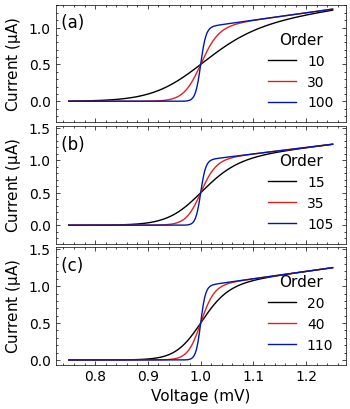
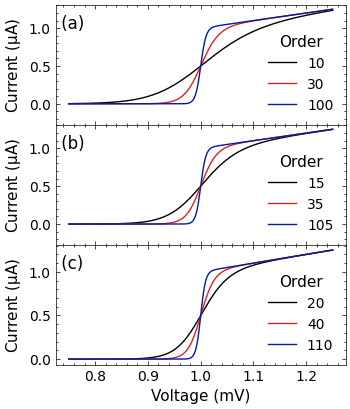
fix: robustly adjust y-axis limits in StackVertical._fix_limits for joined subplots
Three bugs fixed:
1. Reversed condition (`<` → `>`) for upper-limit check meant the top-edge
   adjustment almost never fired.
2. Heuristic index-based tick selection replaced with a visibility-window
   search finding the actual min/max visible tick.
3. FixedLocator now freezes tick positions after a limit expansion to prevent
   the auto-locator from placing new edge ticks that would recreate the overlap.

Also skip _fix_limits for non-linear (e.g. log) y-scales where the linear
transform assumption does not hold, avoiding spurious UserWarning from matplotlib.

New test module added: tests/stonerplots/test_stack_vertical.py

diff --git a/tests/stonerplots/test_stack_vertical.py b/tests/stonerplots/test_stack_vertical.py
@@ -1,0 +1,185 @@
+# -*- coding: utf-8 -*-
+"""Tests for StackVertical context manager, focusing on the _fix_limits robustness fix.
+
+These tests verify that the `_fix_limits` method in StackVertical correctly adjusts
+y-axis limits for joined subplots so that tick labels do not overflow into adjacent
+panels, using the algebraic approach with a FixedLocator to prevent feedback ticks.
+"""
+import numpy as np
+import pytest
+from matplotlib import pyplot as plt
+from matplotlib.ticker import FixedLocator
+
+from stonerplots import StackVertical
+
+
+def _axes_dy(ax) -> float:
+    """Return the minimum required tick-to-edge clearance in axes units for *ax*."""
+    fig = ax.get_figure()
+    ticklabels = ax.yaxis.get_ticklabels()
+    if not ticklabels:
+        return 0.0
+    fnt_pts = float(ticklabels[0].get_fontsize())
+    ax_height = ax.bbox.transformed(fig.transFigure.inverted()).height * fig.get_figheight() * 72
+    return 1.40 * fnt_pts / ax_height if ax_height > 0 else 0.0
+
+
+class TestFixLimitsBottomTickPadding:
+    """Verify that the lowest visible tick is pushed away from the bottom frame edge."""
+
+    def test_bottom_tick_not_too_close_to_bottom_for_non_bottom_subplot(self):
+        """For every non-bottom subplot the lowest visible tick must sit >= dy from the bottom."""
+        plt.figure()
+        with StackVertical(3, joined=True) as axes:
+            for ax in axes:
+                ax.plot([0, 1, 2], [0, 1, 0])
+
+        # Inspect each non-bottom subplot (indices 0 and 1 in a 3-panel stack)
+        for ix, ax in enumerate(axes[:-1]):
+            dy = _axes_dy(ax)
+            if dy <= 0:
+                continue
+            tr = ax.transData + ax.transAxes.inverted()
+            yticks_axes = [tr.transform((0, t))[1] for t in ax.get_yticks()]
+            visible = [ta for ta in yticks_axes if -0.01 <= ta <= 1.01]
+            if not visible:
+                continue
+            lowest = min(visible)
+            # Allow a small numerical tolerance of 1e-6 in the comparison.
+            assert lowest >= dy - 1e-6, (
+                f"Subplot {ix}: lowest visible tick at axes pos {lowest:.4f} "
+                f"is closer than dy={dy:.4f} to the bottom edge"
+            )
+
+        plt.close("all")
+
+    def test_top_tick_not_too_close_to_top_for_non_top_subplot(self):
+        """For every non-top subplot the highest visible tick must sit >= dy from the top."""
+        plt.figure()
+        with StackVertical(3, joined=True) as axes:
+            for ax in axes:
+                ax.plot([0, 1, 2], [0, 1, 0])
+
+        # Inspect each non-top subplot (indices 1 and 2 in a 3-panel stack)
+        for ix, ax in enumerate(axes[1:], start=1):
+            dy = _axes_dy(ax)
+            if dy <= 0:
+                continue
+            tr = ax.transData + ax.transAxes.inverted()
+            yticks_axes = [tr.transform((0, t))[1] for t in ax.get_yticks()]
+            visible = [ta for ta in yticks_axes if -0.01 <= ta <= 1.01]
+            if not visible:
+                continue
+            highest = max(visible)
+            assert highest <= 1.0 - dy + 1e-6, (
+                f"Subplot {ix}: highest visible tick at axes pos {highest:.4f} "
+                f"is closer than dy={dy:.4f} to the top edge"
+            )
+
+        plt.close("all")
+
+
+class TestFixLimitsLockerPreventsEdgeTicks:
+    """Verify that a FixedLocator is installed after a limit adjustment."""
+
+    def test_fixed_locator_installed_when_limits_are_adjusted(self):
+        """At least one non-bottom/non-top subplot should have a FixedLocator after exit."""
+        plt.figure()
+        with StackVertical(3, joined=True) as axes:
+            for ax in axes:
+                ax.plot([0, 1, 2], [0, 1, 0])
+
+        # The middle subplot is most likely to need both lower and upper adjustments.
+        # If the data happened to be perfectly spaced the locator may remain unchanged,
+        # but when an adjustment is made it must be a FixedLocator.
+        middle_ax = axes[1]
+        locator = middle_ax.yaxis.get_major_locator()
+        if isinstance(locator, FixedLocator):
+            ticks = locator.locs
+            assert len(ticks) > 0, "FixedLocator should contain at least one tick"
+        plt.close("all")
+
+
+class TestFixLimitsNoJoined:
+    """When joined=False, _fix_limits should not be called and limits remain default."""
+
+    def test_limits_unchanged_when_not_joined(self):
+        """With joined=False the context manager should not adjust y limits at all."""
+        plt.figure()
+        with StackVertical(3, joined=False) as axes:
+            for ax in axes:
+                ax.plot([0, 1, 2], [0, 1, 0])
+
+        for ax in axes:
+            locator = ax.yaxis.get_major_locator()
+            assert not isinstance(locator, FixedLocator), (
+                "FixedLocator should not be applied when joined=False"
+            )
+        plt.close("all")
+
+
+class TestFixLimitsTwoSubplots:
+    """Sanity check for a 2-subplot stack (top and bottom only, no middle)."""
+
+    def test_two_subplot_stack_exits_cleanly(self):
+        """A 2-panel StackVertical must exit without raising an exception."""
+        plt.figure()
+        with StackVertical(2, joined=True) as axes:
+            for ax in axes:
+                ax.plot([0, 1, 2], [0, 0.5, 0])
+        plt.close("all")
+
+    def test_two_subplot_bottom_tick_ok(self):
+        """In a 2-panel stack the top subplot's bottom tick must be padded."""
+        plt.figure()
+        with StackVertical(2, joined=True) as axes:
+            for ax in axes:
+                ax.plot([0, 1, 2], [0, 0.5, 0])
+
+        top_ax = axes[0]
+        dy = _axes_dy(top_ax)
+        if dy > 0:
+            tr = top_ax.transData + top_ax.transAxes.inverted()
+            yticks_axes = [tr.transform((0, t))[1] for t in top_ax.get_yticks()]
+            visible = [ta for ta in yticks_axes if -0.01 <= ta <= 1.01]
+            if visible:
+                assert min(visible) >= dy - 1e-6
+        plt.close("all")
+
+
+class TestFixLimitsEdgeCases:
+    """Edge-case handling in _fix_limits."""
+
+    def test_single_tick_does_not_raise(self):
+        """_fix_limits must not raise when an axis has only one visible tick."""
+        plt.figure()
+        with StackVertical(2, joined=True) as axes:
+            axes[0].plot([0, 1], [0.5, 0.5])  # Horizontal line → single tick at 0.5
+        plt.close("all")
+
+    def test_large_number_of_subplots(self):
+        """A 5-panel stack should produce consistent padding on every panel."""
+        plt.figure()
+        with StackVertical(5, joined=True) as axes:
+            for ax in axes:
+                ax.plot([0, 1, 2], [0, 1, 0])
+
+        for ix, ax in enumerate(axes):
+            dy = _axes_dy(ax)
+            if dy <= 0:
+                continue
+            tr = ax.transData + ax.transAxes.inverted()
+            yticks_axes = [tr.transform((0, t))[1] for t in ax.get_yticks()]
+            visible = [ta for ta in yticks_axes if -0.01 <= ta <= 1.01]
+            if not visible:
+                continue
+            if ix != len(axes) - 1:  # non-bottom
+                assert min(visible) >= dy - 1e-6, f"Panel {ix}: bottom tick too close to edge"
+            if ix != 0:  # non-top
+                assert max(visible) <= 1.0 - dy + 1e-6, f"Panel {ix}: top tick too close to edge"
+
+        plt.close("all")
+
+
+if __name__ == "__main__":
+    pytest.main([__file__, "-v"])

diff --git a/src/stonerplots/context/multiple_plot.py b/src/stonerplots/context/multiple_plot.py
@@ -8,6 +8,7 @@ import numpy as np
 from matplotlib import pyplot as plt
 from matplotlib.axes import Axes
 from matplotlib.figure import Figure
+from matplotlib.ticker import FixedLocator
 
 from ..counter import counter
 from .base import PlotContextSequence, PreserveFigureMixin, RavelList
@@ -410,22 +411,77 @@ class StackVertical(MultiPanel):
             ax.yaxis.set_label_coords(label_pos, 0.5)
 
     def _fix_limits(self, ix: int, ax: Axes) -> None:
-        """Adjust the y-axis limits to ensure tick labels are inside the axes frame."""
+        """Adjust the y-axis limits to ensure tick labels are inside the axes frame.
+
+        For joined (no-gap) stacked subplots the frame lines of adjacent panels share the
+        same y-coordinate.  A tick label whose tick mark sits close to the shared edge will
+        have half its text rendered inside the neighbouring panel.  This method expands the
+        y-axis limits just enough so that every visible tick mark sits at least *dy* (half
+        a label height in axes units) away from the top and bottom frame edges, then freezes
+        the tick positions with a :class:`~matplotlib.ticker.FixedLocator` so that the
+        enlarged limits cannot cause the auto-locator to add new edge ticks that would
+        recreate the problem.
+        """
         fig = self.figure
+        # Log-scale axes use unevenly spaced ticks; the formula below assumes a linear
+        # mapping from data to axes units, so skip the adjustment for non-linear scales.
+        if ax.get_yscale() != "linear":
+            return
         ticklabels = ax.yaxis.get_ticklabels()
         if not ticklabels:
             return  # No tick labels to adjust for
         fnt_pts_val = ticklabels[0].get_fontsize()
         fnt_pts = float(fnt_pts_val) if isinstance(fnt_pts_val, (int, float, str)) else 10.0
         ax_height = ax.bbox.transformed(fig.transFigure.inverted()).height * fig.get_figheight() * 72
-        dy = 1.40 * fnt_pts / ax_height  # Space needed in axes units for labels 7/5 font size.
-        ylim = list(ax.get_ylim())
-        tr = ax.transData + ax.transAxes.inverted()  # Transform data to axes units
-        yticks = [tr.transform((0, x))[1] for x in ax.get_yticks()]  # Tick positions in axes units.
+        if ax_height <= 0:
+            return
+        dy = 1.40 * fnt_pts / ax_height  # Space needed in axes units for one full label height.
 
-        if len(yticks) > 1 and yticks[1] < dy and ix != len(self.axes) - 1:  # Adjust range for non-bottom plots
-            ylim[0] = tr.inverted().transform((0, -dy))[1]
-        if len(yticks) > 2 and yticks[-2] < 1.0 - dy and ix != 0:  # Adjust range for non-top plots
-            ylim[1] = tr.inverted().transform((0, 1 + dy))[1]
-        ax.set_ylim(ylim[0], ylim[1])
+        ylim = list(ax.get_ylim())
+        yticks_data = ax.get_yticks()
+        tr = ax.transData + ax.transAxes.inverted()  # Transform: data → axes units (0–1)
+        yticks_axes = [tr.transform((0, x))[1] for x in yticks_data]  # Tick positions in axes units.
+
+        # Identify ticks that lie within (or just outside) the visible frame so we know
+        # which are the extreme rendered ticks.  A small tolerance of 0.01 in axes units
+        # admits ticks that the auto-locator may place right at the boundary.
+        visible = [(td, ta) for td, ta in zip(yticks_data, yticks_axes) if -0.01 <= ta <= 1.01]
+        if not visible:
+            return
+
+        t_bottom_data, t_bottom_ax = min(visible, key=lambda x: x[1])
+        t_top_data, t_top_ax = max(visible, key=lambda x: x[1])
+
+        adjust_lower = ix != len(self.axes) - 1  # All subplots except the bottom-most
+        adjust_upper = ix != 0  # All subplots except the top-most
+
+        needs_lower = adjust_lower and t_bottom_ax < dy
+        needs_upper = adjust_upper and t_top_ax > 1.0 - dy
+
+        new_ylim = list(ylim)
+
+        if needs_lower and needs_upper:
+            # Both edges need padding: solve the system so that t_bottom sits at dy and
+            # t_top sits at (1 - dy) in the new axes coordinate frame.
+            tick_range = t_top_data - t_bottom_data
+            if tick_range <= 0 or 1.0 - 2.0 * dy <= 0:
+                return
+            total_range = tick_range / (1.0 - 2.0 * dy)  # 2.0: one dy margin on each edge
+            new_ylim[0] = t_bottom_data - dy * total_range
+            new_ylim[1] = t_top_data + dy * total_range
+        elif needs_lower:
+            # Only the bottom edge needs padding; keep the upper limit fixed.
+            # Solve: dy == (t_bottom_data - new_lower) / (ylim[1] - new_lower)
+            new_ylim[0] = (t_bottom_data - dy * ylim[1]) / (1.0 - dy)
+        elif needs_upper:
+            # Only the top edge needs padding; keep the lower limit fixed.
+            # Solve: (1 - dy) == (t_top_data - ylim[0]) / (new_upper - ylim[0])
+            new_ylim[1] = ylim[0] + (t_top_data - ylim[0]) / (1.0 - dy)
+
+        if new_ylim != ylim:
+            # Freeze tick positions so the enlarged limits do not cause the auto-locator
+            # to place new ticks near the frame edges, which would recreate the problem.
+            ax.yaxis.set_major_locator(FixedLocator([td for td, _ in visible]))
+
+        ax.set_ylim(new_ylim[0], new_ylim[1])
         self.figure.canvas.draw()
